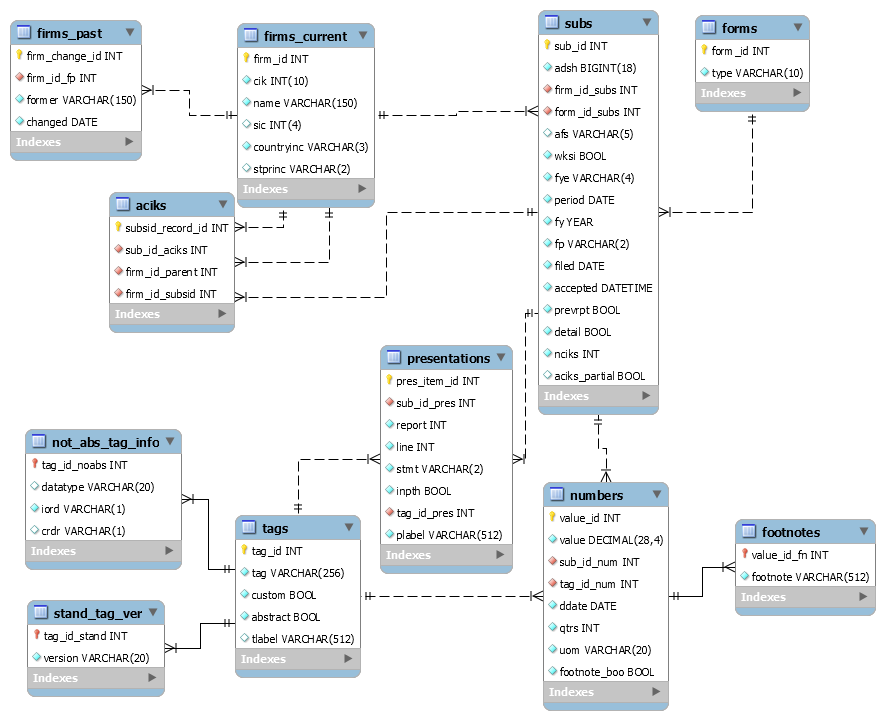
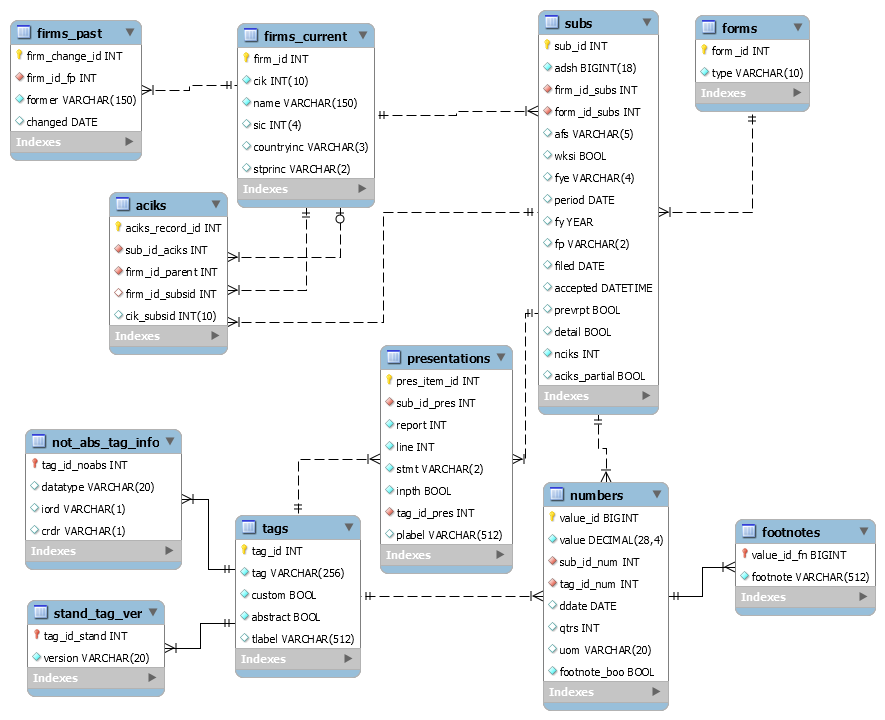
updated db diagram and added py file to put sub.txt data into db

diff --git a/sub_data.py b/sub_data.py
@@ -1,0 +1,208 @@
+# -*- coding: utf-8 -*-
+"""
+Created on Fri Jun 10 07:57:21 2016
+
+@author: Nate Plumb
+
+This file contains a function created for the financial statements data from 
+SEC filings found at 
+https://www.sec.gov/dera/data/financial-statement-data-sets.html.
+The function extracts data from the sub.txt file in the directory in which it 
+is called, organizes the data and places the data in the fs_db database.
+"""
+
+import csv
+import MySQLdb
+import re
+
+
+# helper functions
+
+def clean(esc_str):
+    esc_str = list(esc_str)
+    new_str = []
+    for char in esc_str:
+        if char == "'":
+            new_str.append("\\'")
+        elif char != "\\":
+            new_str.append(char)
+    return ''.join(new_str)
+    
+def has_partial(aciks):
+    flag = False
+    aciks = aciks.split(" ")
+    for cik in aciks:
+        if cik == "PARTIAL":
+            flag = True
+    return flag
+    
+def check_range(year):
+    if year == "":
+        year = 1901
+    elif int(year) < 1901 or int(year) > 2155:
+        year = 1901
+    return str(year)
+    
+def check_null_date(nnv):
+    if nnv == "":
+        nnv = "0000"
+    return nnv
+
+def remove_hy(adsh):
+    adsh = re.sub("-", "", adsh)
+    return adsh
+
+
+
+def sub_data():
+    # extract data          
+    sub = []
+    with open("2016q1/sub.txt", "r") as f:
+        reader = csv.reader(f, delimiter = "\t")
+        for row in reader:
+            sub.append(row)                
+    
+    # arrange data by column
+    header = sub[0]
+    cols = []
+    for col_idx in range(len(header)):
+        data = []
+        for row_idx in range(1, len(sub)):
+            data.append(sub[row_idx][col_idx])
+        cols.append(data)
+    
+    # organize data in dictionary
+    orgd = {}
+    idx = 0
+    for field in header:
+        orgd[field] = cols[idx]
+        idx += 1
+    
+    # remove any escape "'" and remove extra backslashes
+    for field in orgd:
+        for idx in range(len(orgd[field])):
+            orgd[field][idx] = clean(orgd[field][idx])
+            
+        
+    # get mysql password
+    fname = open("pw.txt", "r")
+    pw = fname.read()
+    
+    # connect to mysql
+    conn = MySQLdb.connect(host = "localhost", user = "root", passwd = pw, 
+                           db = "fs_db")
+    cur = conn.cursor()
+    
+    
+    # insert form names not already in 'forms' table
+    for form_type in orgd["form"]:
+        cur.execute("INSERT IGNORE INTO forms (type) VALUES ('"+form_type+"');")
+    conn.commit()
+    
+    
+    # insert data into 'firms_current' table
+    for row in range(len(sub) - 1):
+        cik, name, sic = orgd["cik"][row], orgd["name"][row], orgd["sic"][row]
+        countryinc, stprinc = orgd["countryinc"][row], orgd["stprinc"][row]
+        
+        # prepare for empty 'sic' observations        
+        if sic == "":
+            sic = "0"
+
+        sql = """INSERT IGNORE INTO firms_current (cik, name, sic, countryinc, 
+        stprinc) VALUES ("""+cik+", \""+name+"\", "+sic+", '"+countryinc+"', '"+stprinc+"');"        
+        print sql        
+        cur.execute(sql)
+                                                
+    # commit changes
+    conn.commit()
+ 
+    
+    # insert data into 'firms_past' table
+    for row in range(len(sub) - 1):
+        if orgd["former"][row] != "":
+            changed, former = orgd["changed"][row], orgd["former"][row]
+            cik = orgd["cik"][row] 
+            cur.execute("SELECT firm_id FROM firms_current WHERE cik = "+cik+";")
+            firm_id = str(cur.fetchone()[0])
+            sql = """INSERT IGNORE INTO firms_past (firm_id_fp, former, changed) 
+            VALUES ("""+firm_id+", '"+former+"', "+changed+");"
+            print sql
+            cur.execute(sql)
+            
+    conn.commit()
+    
+
+    # insert data into 'subs' table
+    for row in range(len(sub) - 1):
+        detail, afs, wksi = orgd["detail"][row], orgd["afs"][row], orgd["wksi"][row]
+        nciks, period, form = orgd["nciks"][row], orgd["period"][row], orgd["form"][row]
+        fp, filed, cik = orgd["fp"][row], orgd["filed"][row], orgd["cik"][row]
+        accepted, prevrpt = orgd["accepted"][row], orgd["prevrpt"][row]
+        
+        adsh = remove_hy(orgd["adsh"][row])
+        
+        fye = check_null_date(orgd["fye"][row])        
+        
+        fy = check_range(orgd["fy"][row])        
+        
+        aciks_partial = str(has_partial(orgd["aciks"][row]))
+    
+        cur.execute("SELECT firm_id FROM firms_current WHERE cik = "+cik+";")
+        firm_id_subs = str(cur.fetchone()[0])
+        
+        cur.execute("SELECT form_id FROM forms WHERE type = '"+form+"';")
+        form_id_subs = str(cur.fetchone()[0])
+        
+        sql = """INSERT IGNORE INTO subs (adsh, firm_id_subs, form_id_subs, 
+        afs, wksi, fye, period, fy, fp, filed, accepted, prevrpt, detail, nciks, 
+        aciks_partial) VALUES (
+        """+adsh+", "+firm_id_subs+", "+form_id_subs+", '"+afs+"', "+wksi+", '"+fye+"', "+period+", "+fy+", '"+fp+"', "+filed+", '"+accepted+"', "+prevrpt+", "+detail+", "+nciks+", "+aciks_partial+");"
+                
+        cur.execute(sql)
+        
+    conn.commit()
+
+    # insert data into 'aciks' table
+    for row in range(len(sub) - 1):
+        if orgd["nciks"][row] > 1:
+            adsh = remove_hy(orgd["adsh"][row])
+            cur.execute("SELECT sub_id FROM subs WHERE adsh = "+adsh+";")
+            sub_id_aciks = str(cur.fetchone()[0])
+            
+            cik_parent = orgd["cik"][row]
+            sql = "SELECT firm_id FROM firms_current WHERE cik = "+cik_parent+";"
+            cur.execute(sql)
+            firm_id_parent = str(cur.fetchone()[0])
+            
+            aciks = orgd["aciks"][row].split(" ")
+            for cik in aciks:
+                cik = str(cik)
+                if cik != "":
+                    while len(cik) < 10:
+                        cik = "0"+cik
+                    sql = "SELECT firm_id FROM firms_current WHERE cik = "+cik+";"
+                    print sql
+                    cur.execute(sql)
+                    try:
+                        firm_id_subsid = str(cur.fetchone()[0])
+                        sql = """INSERT IGNORE INTO aciks (sub_id_aciks, 
+                        firm_id_parent, firm_id_subsid) VALUES (
+                        """+sub_id_aciks+", "+firm_id_parent+", "+firm_id_subsid+");"
+                        print sql                    
+                        cur.execute(sql)
+                    except TypeError:
+                        sql = """INSERT IGNORE INTO aciks (sub_id_aciks, 
+                        firm_id_parent, cik_subsid) VALUES (
+                        """+sub_id_aciks+", "+firm_id_parent+", "+cik+");"
+                        print sql
+                        cur.execute(sql)
+                        
+            
+    conn.commit()
+    conn.close()
+    
+                
+    
+    
+sub_data()
